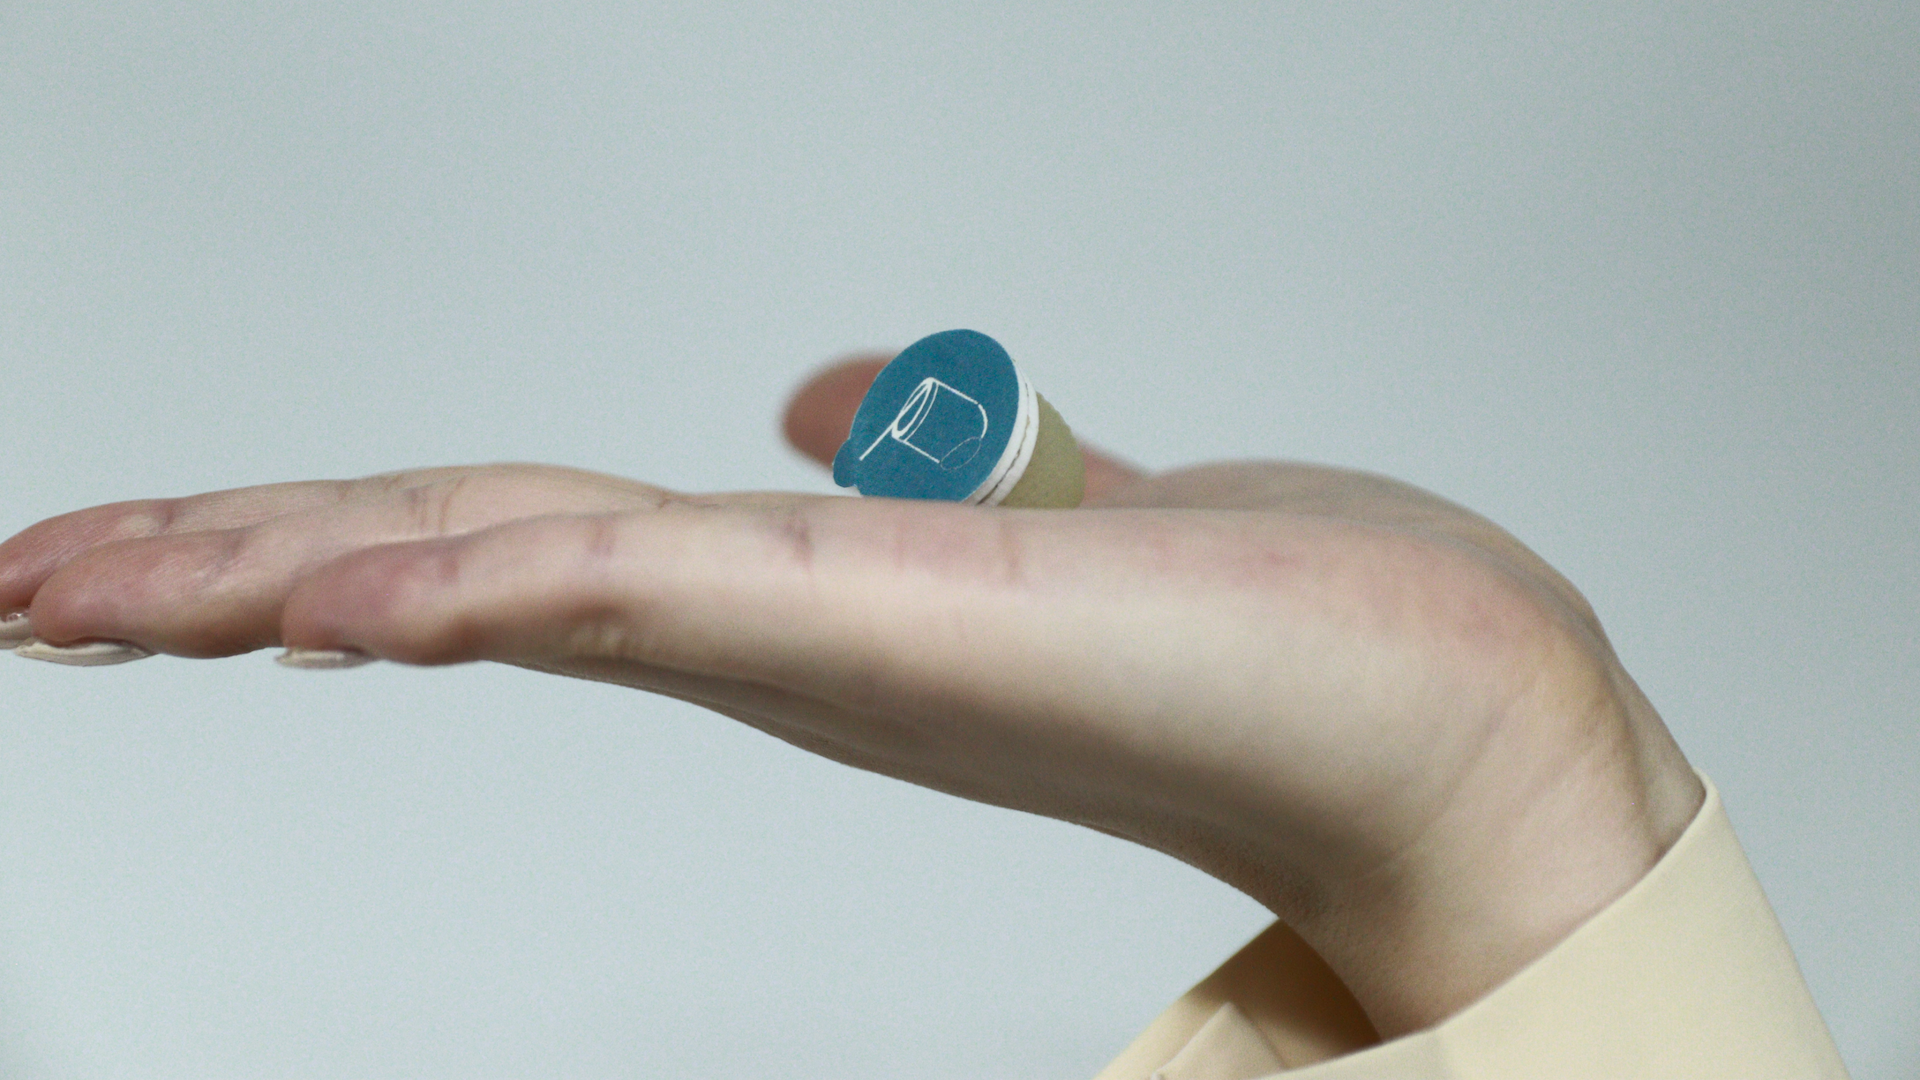
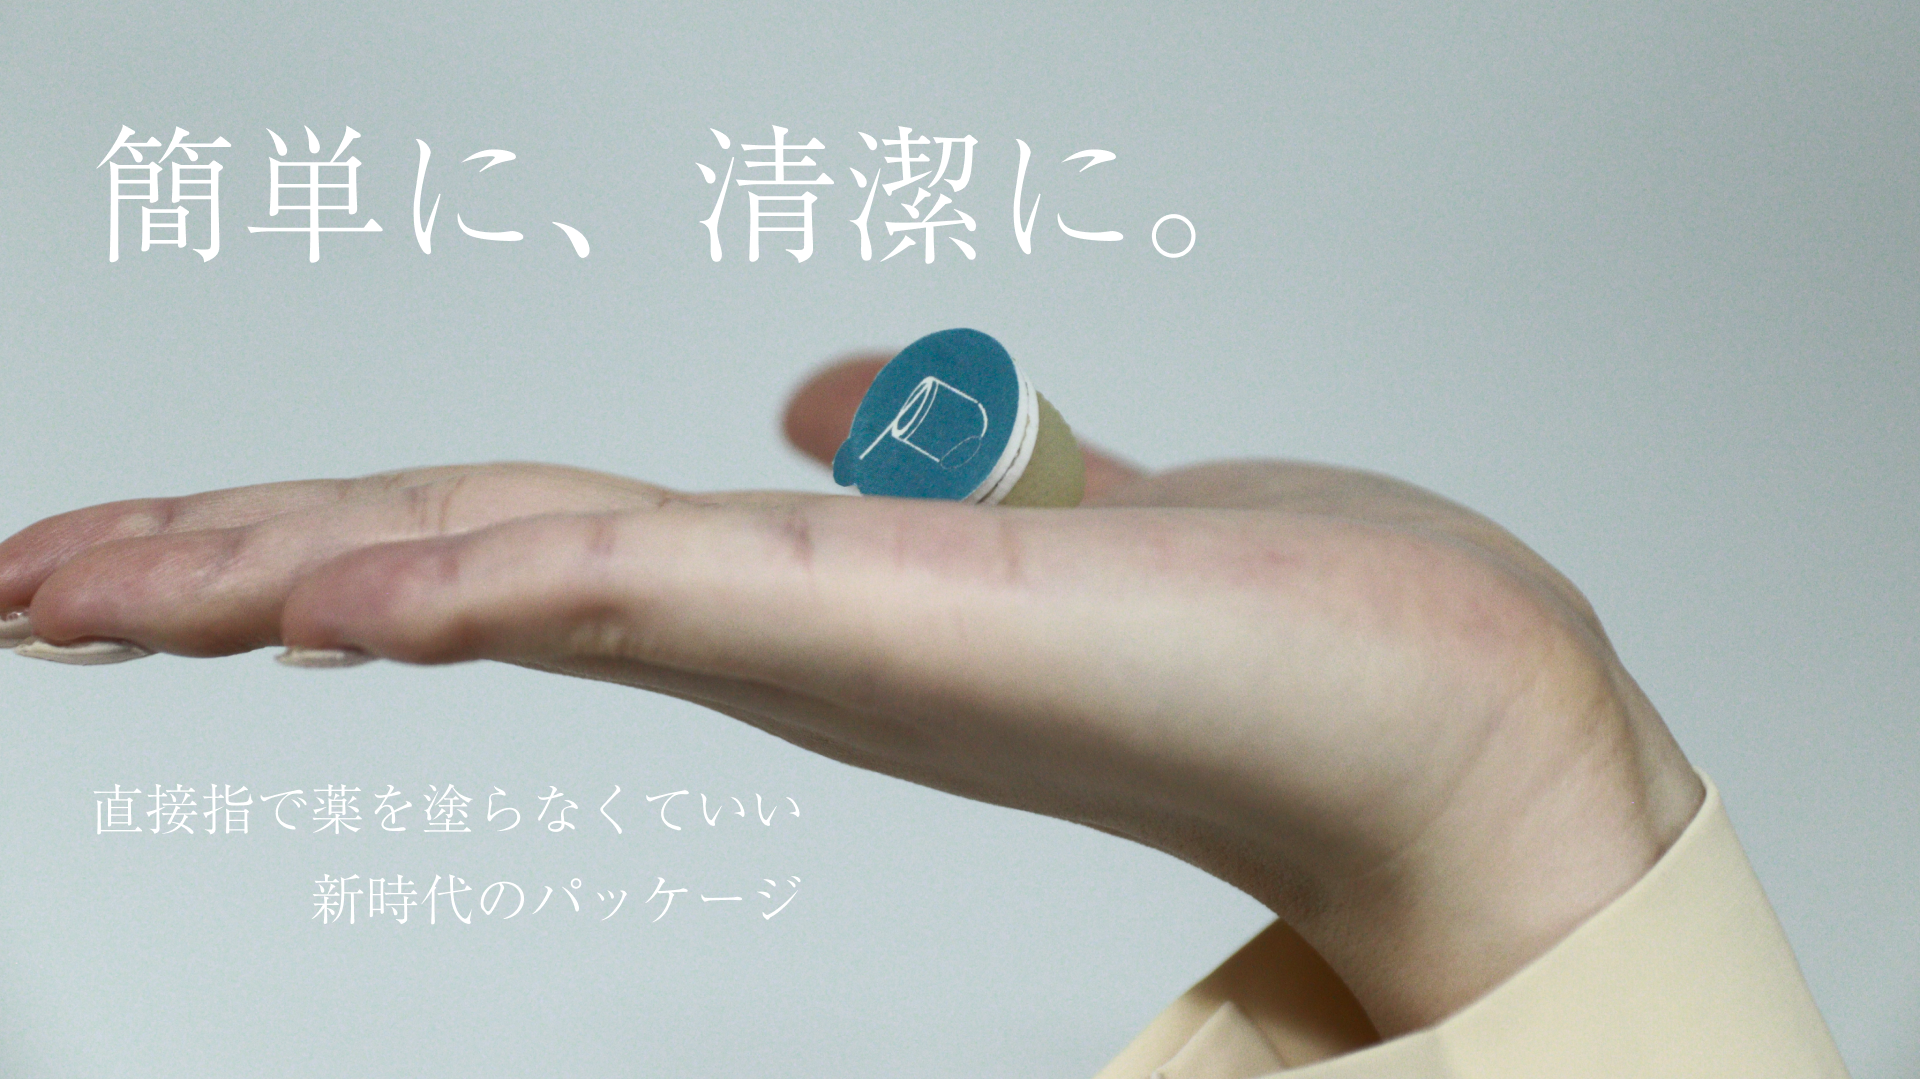
ファーストビュー修正

diff --git a/index.html b/index.html
@@ -63,11 +63,13 @@
     <!--first view部分 構造的に他と異なるのでdivではなくsectionタグで区切る-->
     
     <section class="first-view">
+        <!--
         <h1>簡単に、清潔に。</h1>
         <ul>
             <li>直接指で薬を塗らなくてもいい</li>
             <li>　　　　　新時代のパッケージ</li>
         </ul>
+    -->
     </section>
     <img src="images/first-view-sp.png" alt="ファーストビュー" class="first-view-sp">
     

diff --git a/css/main.css b/css/main.css
@@ -66,7 +66,7 @@ p{
     
     width: 100%;
     min-height: 100vh;
-    background-image: url(../images/first-view.webp);
+    background-image: url(../images/first-view.png);
     
 }
 .first-view h1{
